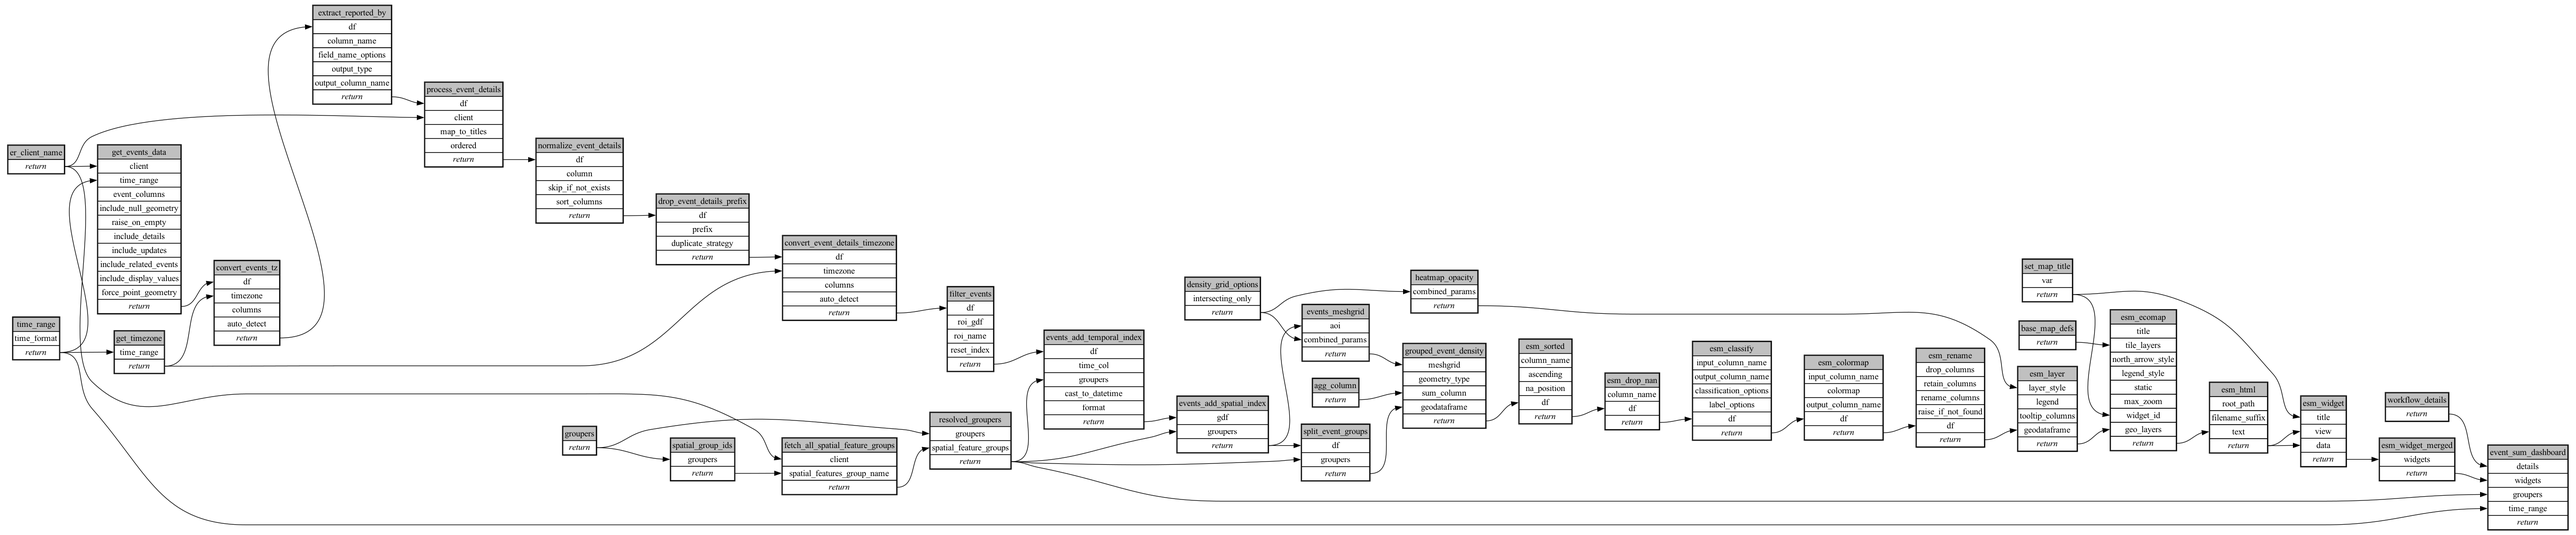
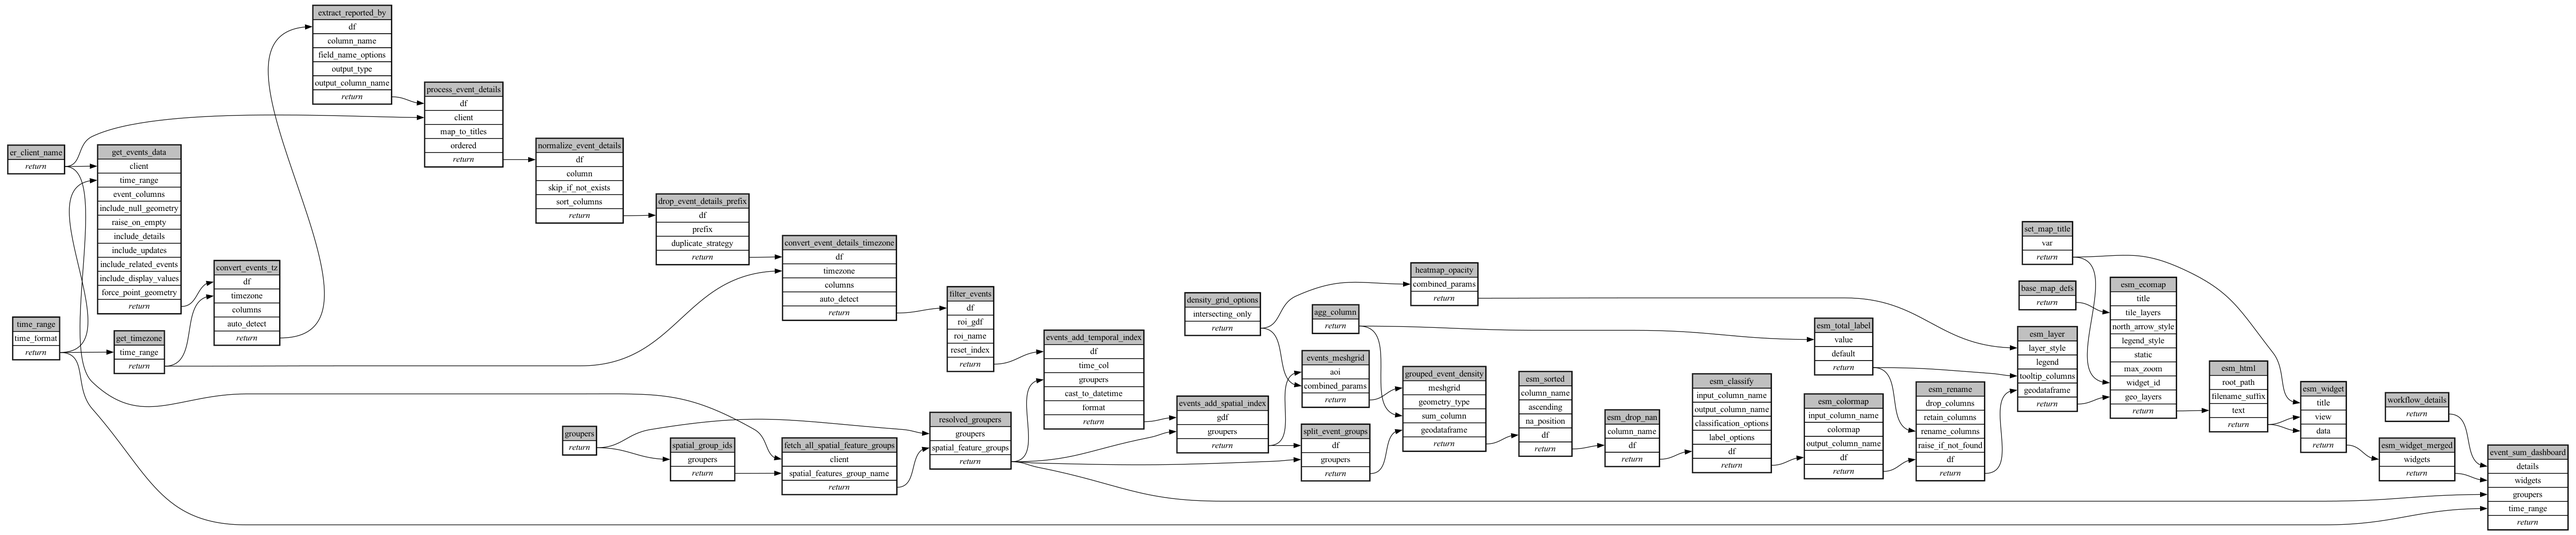
feat: tooltip/column label follows Aggregate Column name, falling back to Total

Changed region(s): [[0.4373, 0.3977, 0.9372, 0.8872]]

diff --git a/ecoscope-workflows-patrol-event-sum-map-workflow/ecoscope_workflows_patrol_event_sum_map_workflow/dags/run_sequential_mock_io.py b/ecoscope-workflows-patrol-event-sum-map-workflow/ecoscope_workflows_patrol_event_sum_map_workflow/dags/run_sequential_mock_io.py
@@ -67,6 +67,9 @@ from ecoscope.platform.tasks.config import (
     call_meshgrid_from_combined_params as call_meshgrid_from_combined_params,
 )
 from ecoscope.platform.tasks.config import (
+    default_if_string_is_empty as default_if_string_is_empty,
+)
+from ecoscope.platform.tasks.config import (
     get_opacity_from_combined_params as get_opacity_from_combined_params,
 )
 from ecoscope.platform.tasks.config import (
@@ -737,6 +740,25 @@ def main(params: dict[str, Any], validate_params_schema: bool = True):
         .mapvalues(argnames=["df"], argvalues=esm_classify)
     )
 
+    esm_total_label = (
+        task(default_if_string_is_empty)
+        .validate()
+        .set_task_instance_id("esm_total_label")
+        .handle_errors()
+        .with_tracing()
+        .skipif(
+            conditions=[
+                any_is_empty_df,
+                any_dependency_skipped,
+            ],
+            unpack_depth=1,
+        )
+        .partial(
+            value=agg_column, default="Total", **(params.get("esm_total_label") or {})
+        )
+        .call()
+    )
+
     esm_rename = (
         task(map_columns)
         .validate()
@@ -753,7 +775,7 @@ def main(params: dict[str, Any], validate_params_schema: bool = True):
         .partial(
             drop_columns=[],
             retain_columns=[],
-            rename_columns={"density": "Total"},
+            rename_columns={"density": esm_total_label},
             raise_if_not_found=True,
             **(params.get("esm_rename") or {}),
         )
@@ -781,7 +803,7 @@ def main(params: dict[str, Any], validate_params_schema: bool = True):
                 "opacity": heatmap_opacity,
             },
             legend={"label_column": "density_bins", "color_column": "density_colormap"},
-            tooltip_columns=["Total"],
+            tooltip_columns=[esm_total_label],
             **(params.get("esm_layer") or {}),
         )
         .mapvalues(argnames=["geodataframe"], argvalues=esm_rename)

diff --git a/ecoscope-workflows-patrol-event-sum-map-workflow/ecoscope_workflows_patrol_event_sum_map_workflow/dags/run_sequential.py b/ecoscope-workflows-patrol-event-sum-map-workflow/ecoscope_workflows_patrol_event_sum_map_workflow/dags/run_sequential.py
@@ -9,6 +9,9 @@ from ecoscope.platform.tasks.config import (
     call_meshgrid_from_combined_params as call_meshgrid_from_combined_params,
 )
 from ecoscope.platform.tasks.config import (
+    default_if_string_is_empty as default_if_string_is_empty,
+)
+from ecoscope.platform.tasks.config import (
     get_opacity_from_combined_params as get_opacity_from_combined_params,
 )
 from ecoscope.platform.tasks.config import (
@@ -715,6 +718,25 @@ def main(params: dict[str, Any], validate_params_schema: bool = True):
         .mapvalues(argnames=["df"], argvalues=esm_classify)
     )
 
+    esm_total_label = (
+        task(default_if_string_is_empty)
+        .validate()
+        .set_task_instance_id("esm_total_label")
+        .handle_errors()
+        .with_tracing()
+        .skipif(
+            conditions=[
+                any_is_empty_df,
+                any_dependency_skipped,
+            ],
+            unpack_depth=1,
+        )
+        .partial(
+            value=agg_column, default="Total", **(params.get("esm_total_label") or {})
+        )
+        .call()
+    )
+
     esm_rename = (
         task(map_columns)
         .validate()
@@ -731,7 +753,7 @@ def main(params: dict[str, Any], validate_params_schema: bool = True):
         .partial(
             drop_columns=[],
             retain_columns=[],
-            rename_columns={"density": "Total"},
+            rename_columns={"density": esm_total_label},
             raise_if_not_found=True,
             **(params.get("esm_rename") or {}),
         )
@@ -759,7 +781,7 @@ def main(params: dict[str, Any], validate_params_schema: bool = True):
                 "opacity": heatmap_opacity,
             },
             legend={"label_column": "density_bins", "color_column": "density_colormap"},
-            tooltip_columns=["Total"],
+            tooltip_columns=[esm_total_label],
             **(params.get("esm_layer") or {}),
         )
         .mapvalues(argnames=["geodataframe"], argvalues=esm_rename)

diff --git a/ecoscope-workflows-patrol-event-sum-map-workflow/README.md b/ecoscope-workflows-patrol-event-sum-map-workflow/README.md
@@ -5,8 +5,8 @@
 
 ```yaml
 # fingerprint:
-artifacts_sha256_basic: 53cf79af15cd74adbb5436e999c8cdc027a4a45159cbd7d73fd78e62bc651f27
-artifacts_sha256_strict: 0e5b3608df7121b8c2f6aca21caa0a1e8b76a67bdd90a6acaecea6efe72b2aba
+artifacts_sha256_basic: df0f1b4062ef4c8a29daf7c5ac4901e6e349fd96adb7d29048afbe28c94b97d8
+artifacts_sha256_strict: fa5e444aa060f6b97311369559c7d10ebac46f8203229b0b08750600a47ff3b9
 installed_requirements:
 - channel: https://repo.prefix.dev/ecoscope-workflows/
   name: lonboard
@@ -24,7 +24,7 @@ installed_requirements:
   name: pydeck
   version: {version: ==0.9.2}
 params_sha256: 0319c1264a5a09ad6a3e139100ed4250ca3bd7cf1b71780a03665f4892dbaf52
-spec_sha256: 52697f49bc55de0ffdbd1252918b490fc3920deb04080e77f143e040452f020a
+spec_sha256: 14487404fd7e0ed30f661b661c5544cca40b354d398c6173c401b452a891112d
 
 ```
 
